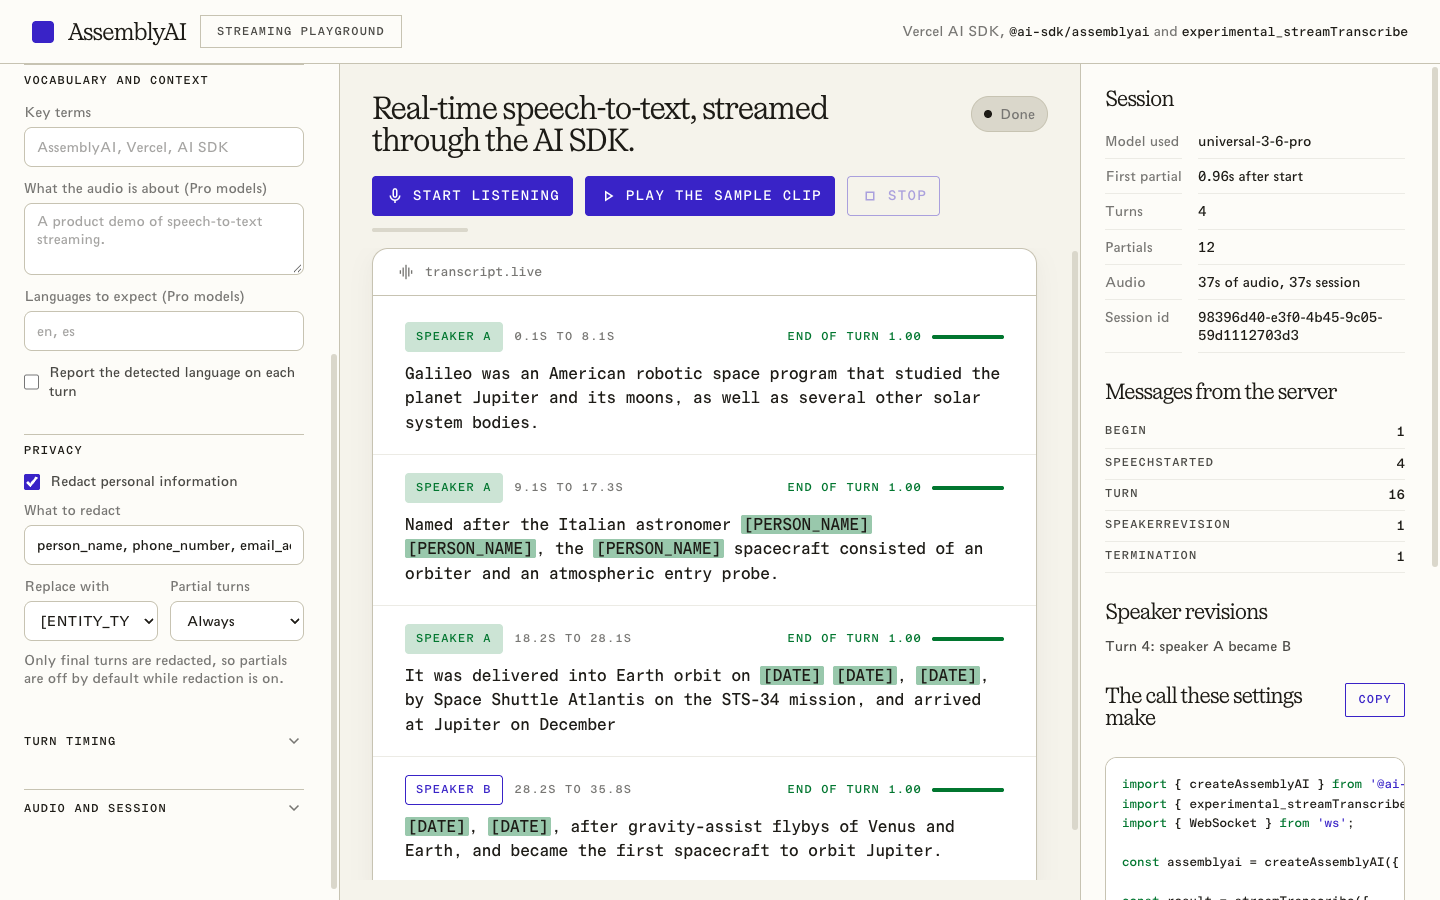
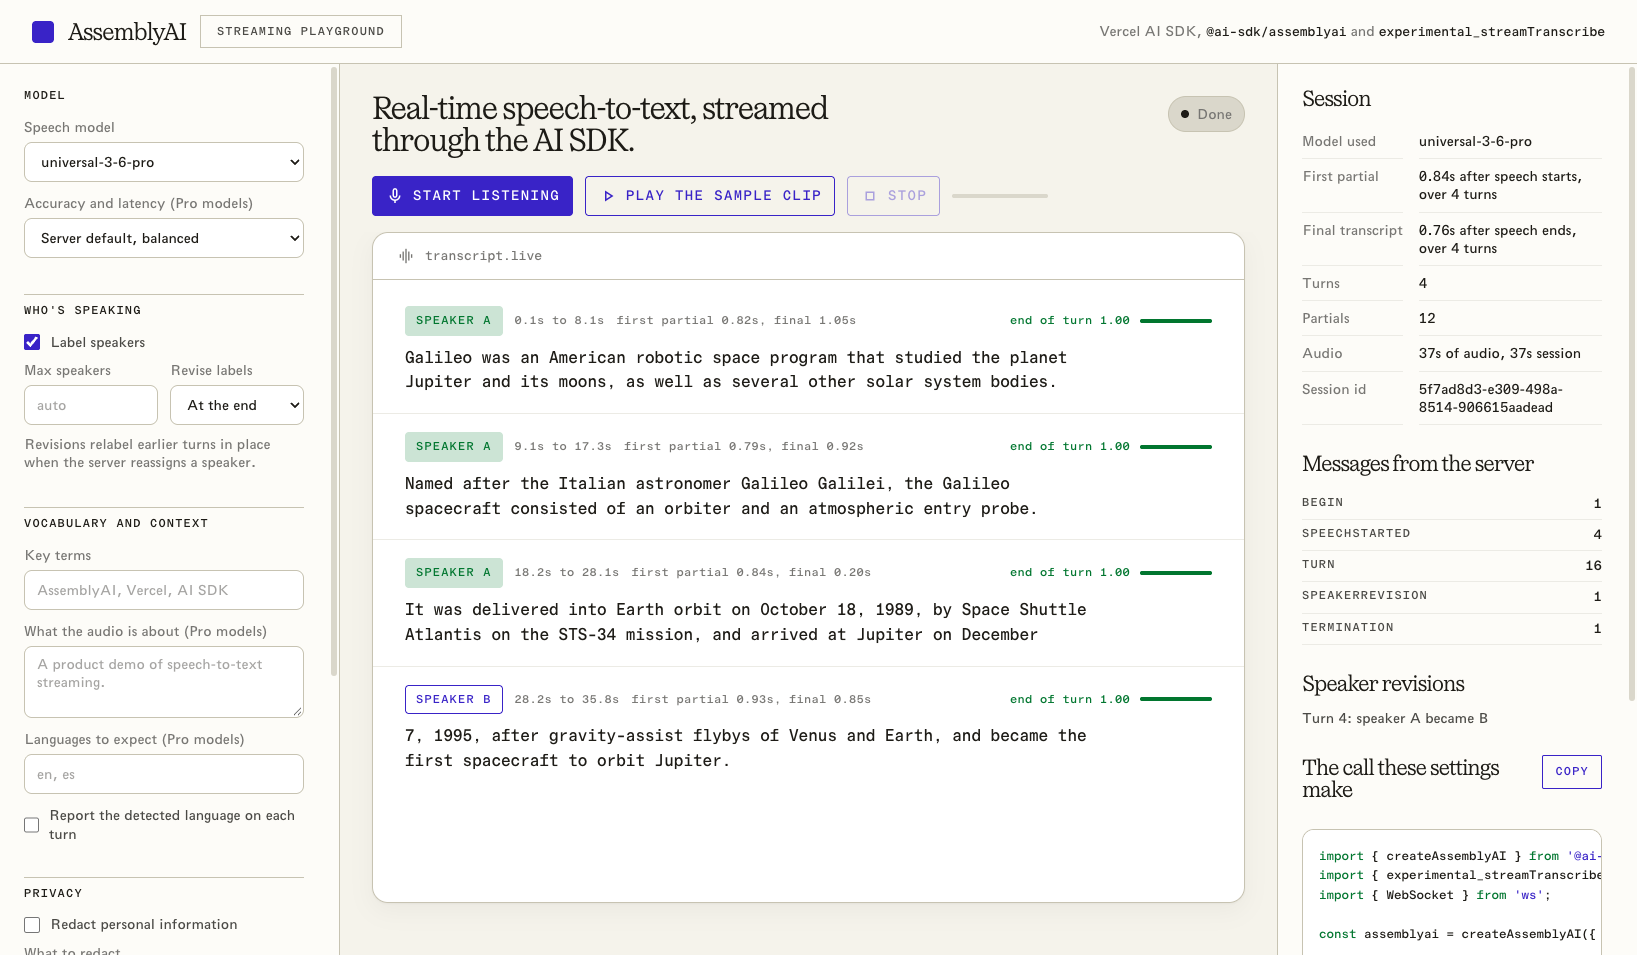
demo(assemblyai): per-turn and average latency from the audio the browser sent
Replace the single "first partial after start" stat with two latencies
measured per turn and averaged in the session panel:

- first partial: from speech onset (the SpeechStarted timestamp on Pro
  models, else the first word's start) to the first non-empty partial
- final: from the end of the last word to the first message with
  end_of_turn=true

Both are computed against the wall-clock time each 100 ms audio chunk
left the browser, so they hold for the microphone and the paced sample
clip alike. Meta-line labels move to a lowercase mono style so the units
read naturally.

Changed region(s): [[0.0, 0.0, 1.0, 1.0], [0.0, 0.9644, 0.1562, 1.0], [0.9688, 0.6222, 1.0, 0.7156]]

diff --git a/examples/assemblyai-streaming-playground/public/app.js b/examples/assemblyai-streaming-playground/public/app.js
@@ -8,8 +8,13 @@ const state = {
   source: null,
   status: 'ready',
   startedAt: 0,
-  firstPartialAt: null,
   partials: 0,
+  // wall-clock time each 100 ms audio chunk left the browser, by chunk index
+  chunkSentAt: [],
+  // speech onset (audio ms) reported by SpeechStarted, waiting for its turn
+  pendingSpeechStartMs: null,
+  // per turn_order: { firstPartialMs, finalMs } latencies in milliseconds
+  latency: new Map(),
   turns: new Map(),
   speakerOrder: [],
   events: new Map(),
@@ -182,8 +187,10 @@ function resetSession() {
   state.speakerOrder = [];
   state.events.clear();
   state.confidence.clear();
+  state.latency.clear();
+  state.chunkSentAt = [];
+  state.pendingSpeechStartMs = null;
   state.partials = 0;
-  state.firstPartialAt = null;
   $('#turns').innerHTML = '';
   $('#empty').hidden = false;
   $('#warnings').innerHTML = '';
@@ -191,7 +198,8 @@ function resetSession() {
   $('#revisions').innerHTML = '<span class="muted">None yet.</span>';
   for (const id of [
     'modelUsed',
-    'firstPartial',
+    'avgFirstPartial',
+    'avgFinal',
     'audioDuration',
     'sessionId',
   ]) {
@@ -308,7 +316,10 @@ async function startMicrophone(socket) {
   const silent = context.createGain();
   silent.gain.value = 0;
   node.port.onmessage = ({ data }) => {
-    if (socket.readyState === WebSocket.OPEN) socket.send(data.pcm);
+    if (socket.readyState === WebSocket.OPEN) {
+      socket.send(data.pcm);
+      state.chunkSentAt.push(performance.now());
+    }
     showLevel(data.peak);
   };
   source.connect(node);
@@ -364,6 +375,7 @@ async function startSampleClip(socket) {
       pcm[i] = sample * 0x7fff;
     }
     socket.send(pcm.buffer);
+    state.chunkSentAt.push(performance.now());
     showLevel(peak);
     $('#statusText').textContent =
       `Sample clip, ${(offset / SAMPLE_RATE).toFixed(0)} of ${decoded.duration.toFixed(0)}s`;
@@ -372,10 +384,6 @@ async function startSampleClip(socket) {
 }
 
 // ---------- stream parts -> UI ----------
-
-function elapsed() {
-  return ((performance.now() - state.startedAt) / 1000).toFixed(2);
-}
 
 function handlePart(part) {
   switch (part.type) {
@@ -389,10 +397,6 @@ function handlePart(part) {
       if (part.modelId) setStat('modelUsed', part.modelId);
       break;
     case 'transcript-partial':
-      if (state.firstPartialAt == null) {
-        state.firstPartialAt = elapsed();
-        setStat('firstPartial', `${state.firstPartialAt}s after start`);
-      }
       state.partials++;
       $('#partialCount').textContent = String(state.partials);
       upsertTurn({
@@ -449,7 +453,11 @@ function handleRaw(raw) {
         `<div class="event"><span class="e1">${name}</span><b>${count}</b></div>`,
     )
     .join('');
-  if (type === 'Turn') trackConfidence(raw);
+  if (type === 'SpeechStarted') state.pendingSpeechStartMs = raw.timestamp;
+  if (type === 'Turn') {
+    trackConfidence(raw);
+    trackLatency(raw);
+  }
   if (type === 'Begin' && raw.id) setStat('sessionId', raw.id);
   if (type === 'Begin' && raw.configuration?.model)
     setStat('modelUsed', raw.configuration.model);
@@ -476,9 +484,101 @@ function renderConfidence(item, entry) {
   box.hidden = false;
   box.classList.toggle('final', entry.final);
   box.querySelector('.eot-value').textContent =
-    `End of turn ${entry.value.toFixed(2)}`;
+    `end of turn ${entry.value.toFixed(2)}`;
   box.querySelector('.eot-bar > div').style.width =
     `${Math.round(entry.value * 100)}%`;
+}
+
+// ---------- latency, measured against the audio the browser actually sent ----------
+
+const CHUNK_MS = (CHUNK_SAMPLES / SAMPLE_RATE) * 1000;
+
+// Wall-clock time at which the audio at `audioMs` left the browser. Chunks go
+// out at real-time pace, so interpolate inside the chunk that carried it.
+function sentAt(audioMs) {
+  const sent = state.chunkSentAt;
+  if (sent.length === 0) return null;
+  const index = Math.min(Math.floor(audioMs / CHUNK_MS), sent.length - 1);
+  return sent[index] + (audioMs - index * CHUNK_MS);
+}
+
+function audioSentMs() {
+  return state.chunkSentAt.length * CHUNK_MS;
+}
+
+// First partial: from speech onset (SpeechStarted on Pro models, else the first
+// word's start) to the first non-empty partial. Final: from the end of the last
+// word to the first message with end_of_turn=true.
+function trackLatency(raw) {
+  if (raw.turn_order == null) return;
+  const now = performance.now();
+  let entry = state.latency.get(raw.turn_order);
+  if (!entry) {
+    entry = { firstPartialMs: null, finalMs: null };
+    state.latency.set(raw.turn_order, entry);
+  }
+  const words = raw.words ?? [];
+
+  if (entry.firstPartialMs == null && (raw.transcript ?? '').length > 0) {
+    // a SpeechStarted timestamp is only usable if it is an audio position
+    const onset =
+      state.pendingSpeechStartMs != null &&
+      state.pendingSpeechStartMs <= audioSentMs() + 1000
+        ? state.pendingSpeechStartMs
+        : words[0]?.start;
+    state.pendingSpeechStartMs = null;
+    const at = onset != null ? sentAt(onset) : null;
+    if (at != null) entry.firstPartialMs = Math.max(0, now - at);
+  }
+
+  if (entry.finalMs == null && raw.end_of_turn === true && words.length > 0) {
+    const at = sentAt(words[words.length - 1].end);
+    if (at != null) entry.finalMs = Math.max(0, now - at);
+  }
+
+  const item = state.turns.get(`turn-${raw.turn_order}`);
+  if (item) renderLatency(item, entry);
+  renderAverages();
+}
+
+function formatSeconds(ms) {
+  return `${(ms / 1000).toFixed(2)}s`;
+}
+
+function renderLatency(item, entry) {
+  const box = item.querySelector('.latency');
+  const parts = [];
+  if (entry.firstPartialMs != null)
+    parts.push(`first partial ${formatSeconds(entry.firstPartialMs)}`);
+  if (entry.finalMs != null)
+    parts.push(`final ${formatSeconds(entry.finalMs)}`);
+  box.hidden = parts.length === 0;
+  box.textContent = parts.join(', ');
+}
+
+function renderAverages() {
+  const entries = [...state.latency.values()];
+  const average = key => {
+    const values = entries.map(e => e[key]).filter(v => v != null);
+    if (values.length === 0) return null;
+    return {
+      mean: values.reduce((a, b) => a + b, 0) / values.length,
+      n: values.length,
+    };
+  };
+  const turns = n => `${n} ${n === 1 ? 'turn' : 'turns'}`;
+  const first = average('firstPartialMs');
+  const final = average('finalMs');
+  if (first)
+    setStat(
+      'avgFirstPartial',
+      `${formatSeconds(first.mean)} after speech starts, over ${turns(first.n)}`,
+    );
+  if (final)
+    setStat(
+      'avgFinal',
+      `${formatSeconds(final.mean)} after speech ends, over ${turns(final.n)}`,
+    );
 }
 
 // Redacted spans ([PERSON_NAME], ####) get the UI & Code highlight block.
@@ -511,7 +611,7 @@ function upsertTurn({
     item = document.createElement('li');
     item.className = 'turn';
     item.dataset.turn = id;
-    item.innerHTML = `<div class="turn-meta"><span class="speaker e1"></span><span class="time e1"></span><span class="lang e1" hidden></span><span class="eot" hidden><span class="eot-value e1"></span><span class="eot-bar" aria-hidden="true"><div></div></span></span></div><p class="text"></p>`;
+    item.innerHTML = `<div class="turn-meta"><span class="speaker e1"></span><span class="time m1"></span><span class="lang e1" hidden></span><span class="latency m1" hidden></span><span class="eot" hidden><span class="eot-value m1"></span><span class="eot-bar" aria-hidden="true"><div></div></span></span></div><p class="text"></p>`;
     $('#turns').appendChild(item);
     state.turns.set(id, item);
     $('#turnCount').textContent = String(state.turns.size);
@@ -536,8 +636,11 @@ function upsertTurn({
         : `${startSecond.toFixed(1)}s`;
   }
   if (speaker != null) setSpeaker(item, speaker);
-  const confidence = state.confidence.get(Number(id.replace('turn-', '')));
+  const turnOrder = Number(id.replace('turn-', ''));
+  const confidence = state.confidence.get(turnOrder);
   if (confidence) renderConfidence(item, confidence);
+  const latency = state.latency.get(turnOrder);
+  if (latency) renderLatency(item, latency);
   if (language) {
     const badge = item.querySelector('.lang');
     badge.textContent = language;

diff --git a/examples/assemblyai-streaming-playground/public/index.html b/examples/assemblyai-streaming-playground/public/index.html
@@ -44,6 +44,7 @@
   h1, h2, h3 { font-family: var(--font-display); font-weight: 400; color: var(--color-black-500); line-height: 1; margin: 0; }
   .e1 { font-family: var(--font-mono); font-size: 12px; letter-spacing: 1.2px; text-transform: uppercase; font-feature-settings: "ss09" 1; }
   .e2 { font-family: var(--font-mono); font-size: 14px; letter-spacing: 1.4px; text-transform: uppercase; }
+  .m1 { font-family: var(--font-mono); font-size: 12px; letter-spacing: 0.3px; }
   .material-symbols-outlined { font-variation-settings: 'FILL' 0, 'wght' 400, 'GRAD' 0, 'opsz' 20; font-size: 20px; line-height: 1; }
 
   /* header */
@@ -129,10 +130,11 @@
   .turn { padding: 18px 32px; border-bottom: 1px solid var(--color-neutral-100); }
   .turn:last-child { border-bottom: 0; }
   .turn-meta { display: flex; gap: 12px; align-items: center; flex-wrap: wrap; margin-bottom: 10px; font-size: 12px; color: var(--color-black-300); }
-  .turn-meta .e1 { color: var(--color-black-300); }
+  .turn-meta .e1, .turn-meta .m1 { color: var(--color-black-300); }
+  .latency { white-space: nowrap; }
   .eot { display: inline-flex; align-items: center; gap: 10px; margin-left: auto; color: var(--color-black-300); transition: color 0.2s ease; }
   .eot.final { color: var(--green-text); }
-  .eot.final .e1 { color: var(--green-text); }
+  .eot.final .m1 { color: var(--green-text); }
   .eot-bar { width: 72px; height: 4px; border-radius: var(--radius-full); background: var(--color-neutral-100); overflow: hidden; }
   .eot-bar > div { height: 100%; width: 0; background: var(--green-text); transition: width 0.2s ease; }
   .speaker { display: inline-flex; align-items: center; gap: 6px; padding: 6px 10px; border: 1px solid var(--color-neutral-300); border-radius: var(--radius-sm); color: var(--color-black-400); transition: all 0.2s ease; }
@@ -296,7 +298,8 @@
       <h2>Session</h2>
       <dl>
         <dt>Model used</dt><dd id="modelUsed" class="muted">Not started</dd>
-        <dt>First partial</dt><dd id="firstPartial" class="muted">Not started</dd>
+        <dt>First partial</dt><dd id="avgFirstPartial" class="muted">Not started</dd>
+        <dt>Final transcript</dt><dd id="avgFinal" class="muted">Not started</dd>
         <dt>Turns</dt><dd id="turnCount">0</dd>
         <dt>Partials</dt><dd id="partialCount">0</dd>
         <dt>Audio</dt><dd id="audioDuration" class="muted">Not started</dd>

diff --git a/examples/assemblyai-streaming-playground/README.md b/examples/assemblyai-streaming-playground/README.md
@@ -5,10 +5,12 @@ A browser playground for AssemblyAI real-time transcription through the Vercel A
 
 Speak into the microphone (or play the bundled sample clip) and watch partial words settle
 into final turns, with speaker labels, live speaker revisions, PII redaction, and the other
-streaming options exposed as controls. Each turn shows its end-of-turn confidence changing as
-partials arrive (a real curve on the Universal Streaming models; a step from 0 to 1 on the Pro
-models, which detect turns by punctuation). The right-hand panel shows the exact
-`streamTranscribe` call your settings produce.
+streaming options exposed as controls. Each turn shows two latencies measured against the audio
+the browser actually sent: time from speech onset to the first partial, and time from the end of
+the last word to the message with `end_of_turn: true`. The session panel averages both across
+turns. Each turn also shows its end-of-turn confidence changing as partials arrive (a real curve
+on the Universal Streaming models; a step from 0 to 1 on the Pro models, which detect turns by
+punctuation). The right-hand panel shows the exact `streamTranscribe` call your settings produce.
 
 The page follows the AssemblyAI brand design system: Oceanic Text headings, UN 11ST body,
 Modern Gothic Mono for labels, CTAs, and everything inside the transcript window, Cobolt as the
